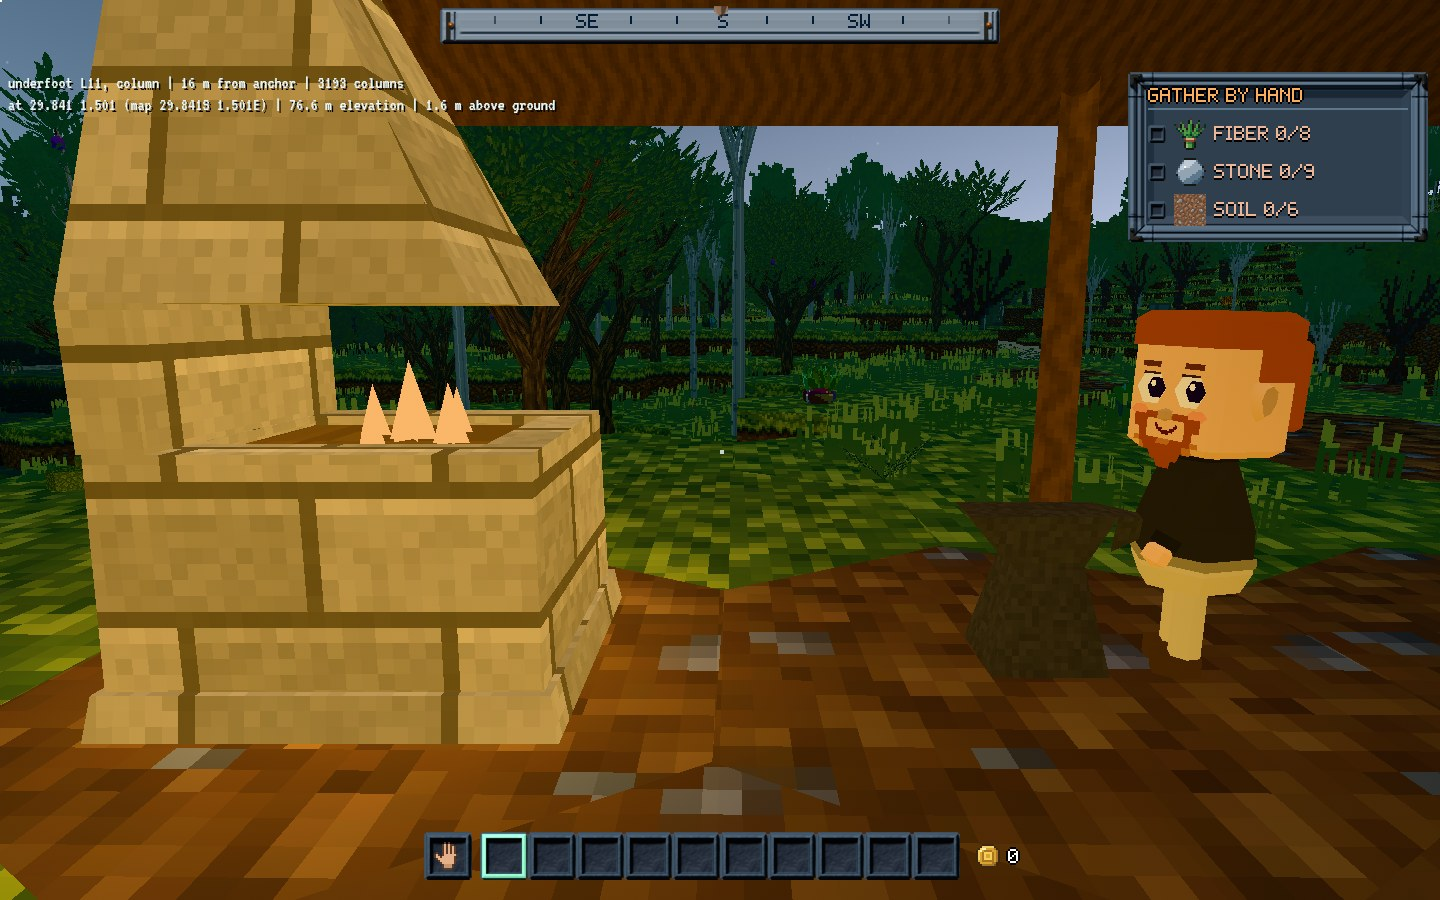
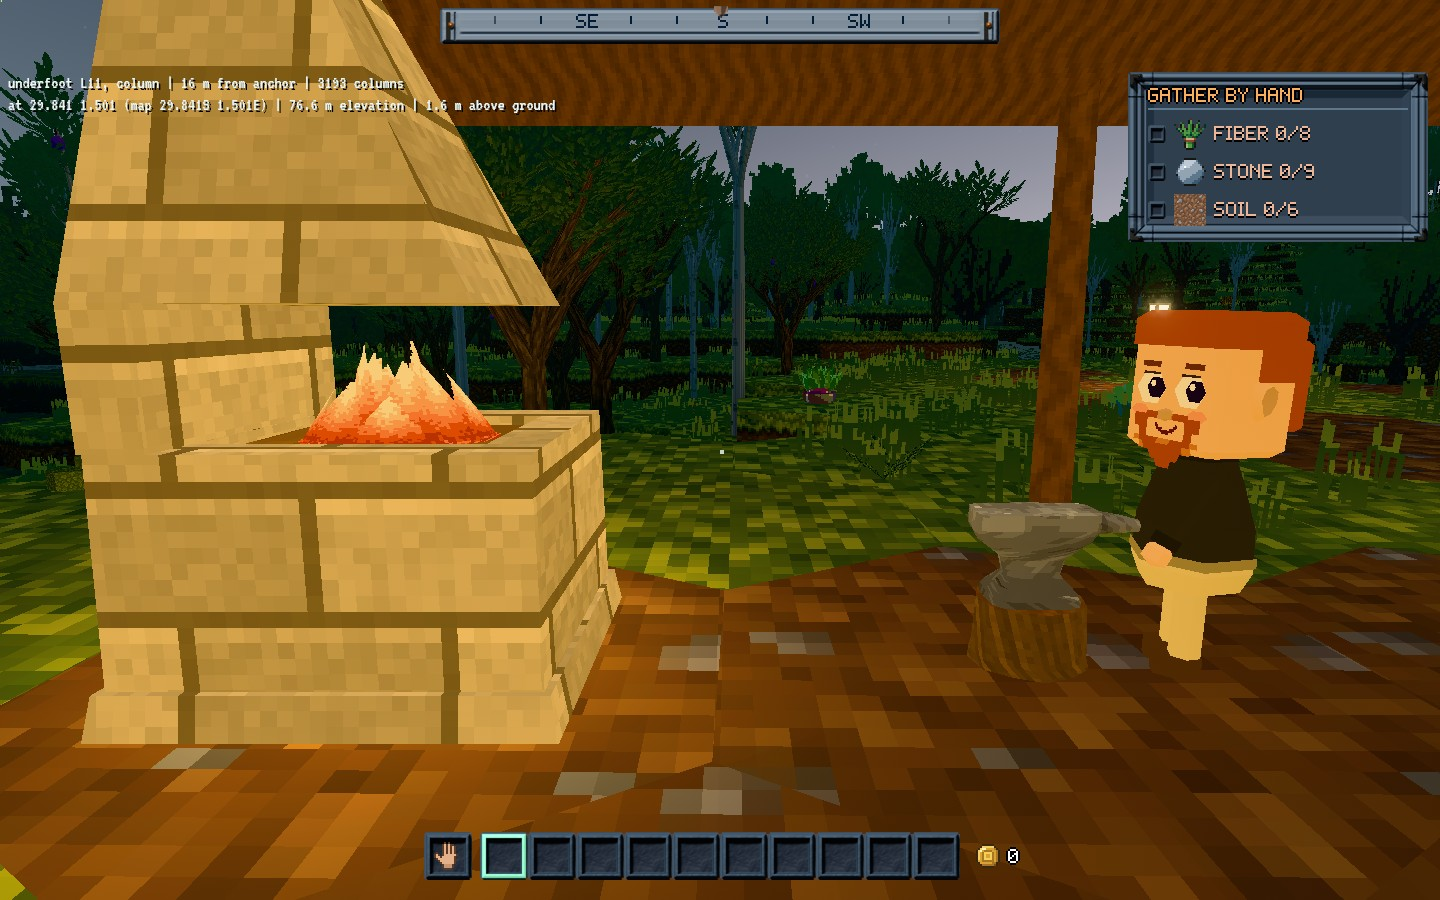
townsfolk 26a: forge captures retaken with the new fire and anvil, and a close-up
smith-forge-2045.jpg and forge-day.jpg retaken (lavapipe, no GPU), and
forge-close.jpg cropped from the 20:45 shot. 26b's parallel plan is marked
superseded by the redo that was built.

Claude-Session: https://claude.ai/code/session_01RGPQut43HZDbTofZKV6sxg

diff --git a/openspec/changes/townsfolk/design.md b/openspec/changes/townsfolk/design.md
@@ -938,7 +938,11 @@ faked with a light of its own.
     retaken and `forge-close.jpg`, the fire and the anvil close up.
 
 **26b. The forge's fire and anvil, redone (2026-11-24).** Written before
-the code. Measured in the captures of 26a (`smith-forge-2230.jpg`,
+the code. *Superseded by the redo that was built, 26a's last bullet ("The
+fire and the anvil redone"), which landed alongside this plan: one lofted
+flame crown in `forge_fire` rather than crossed ribbons, a coal bed in the
+same sheet rather than `embers`, and the anvil on a stump.* Measured in the
+captures of 26a (`smith-forge-2230.jpg`,
 `forge-day.jpg`): the fire is five crossed-triangle tongues
 (`Sink::flame`) in one flat unlit colour, which read as five pale cones on
 the hearth; the anvil is two frustums and a four-faced horn in the town's
